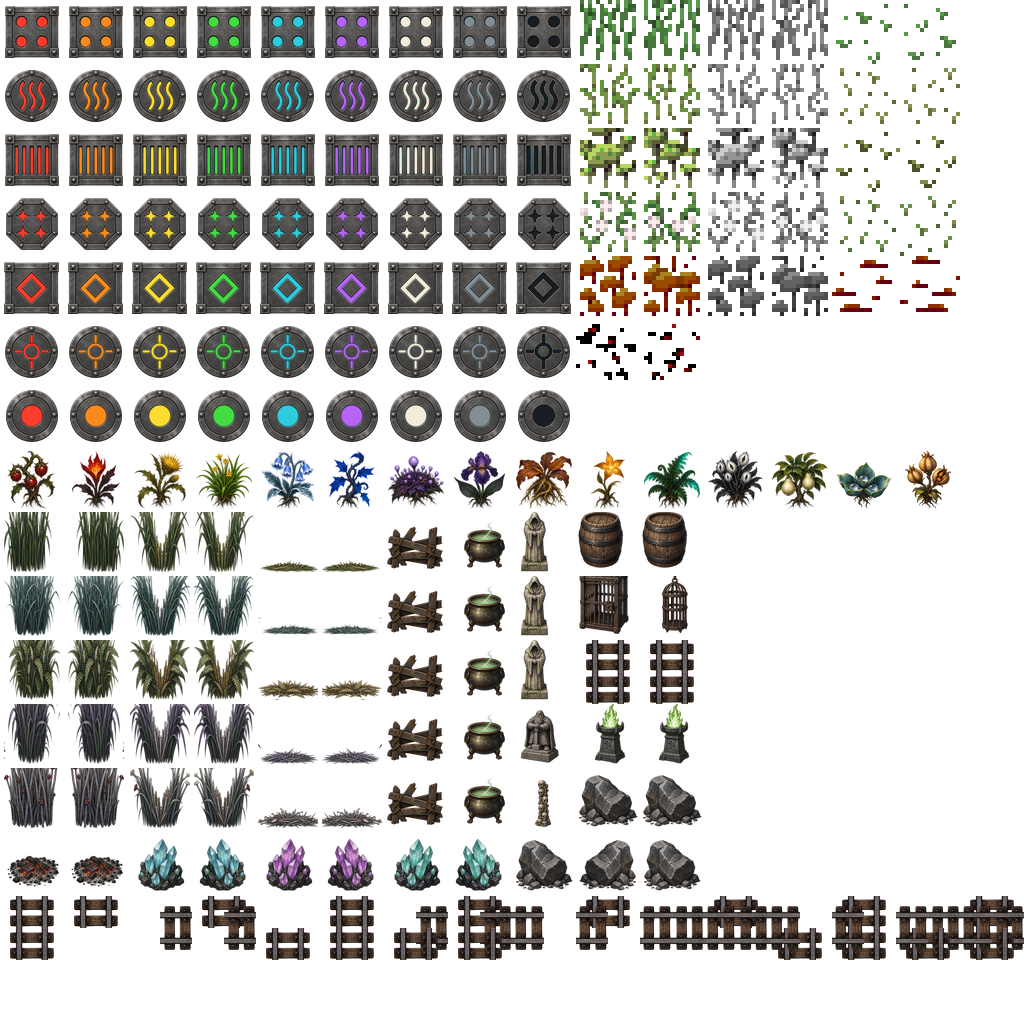
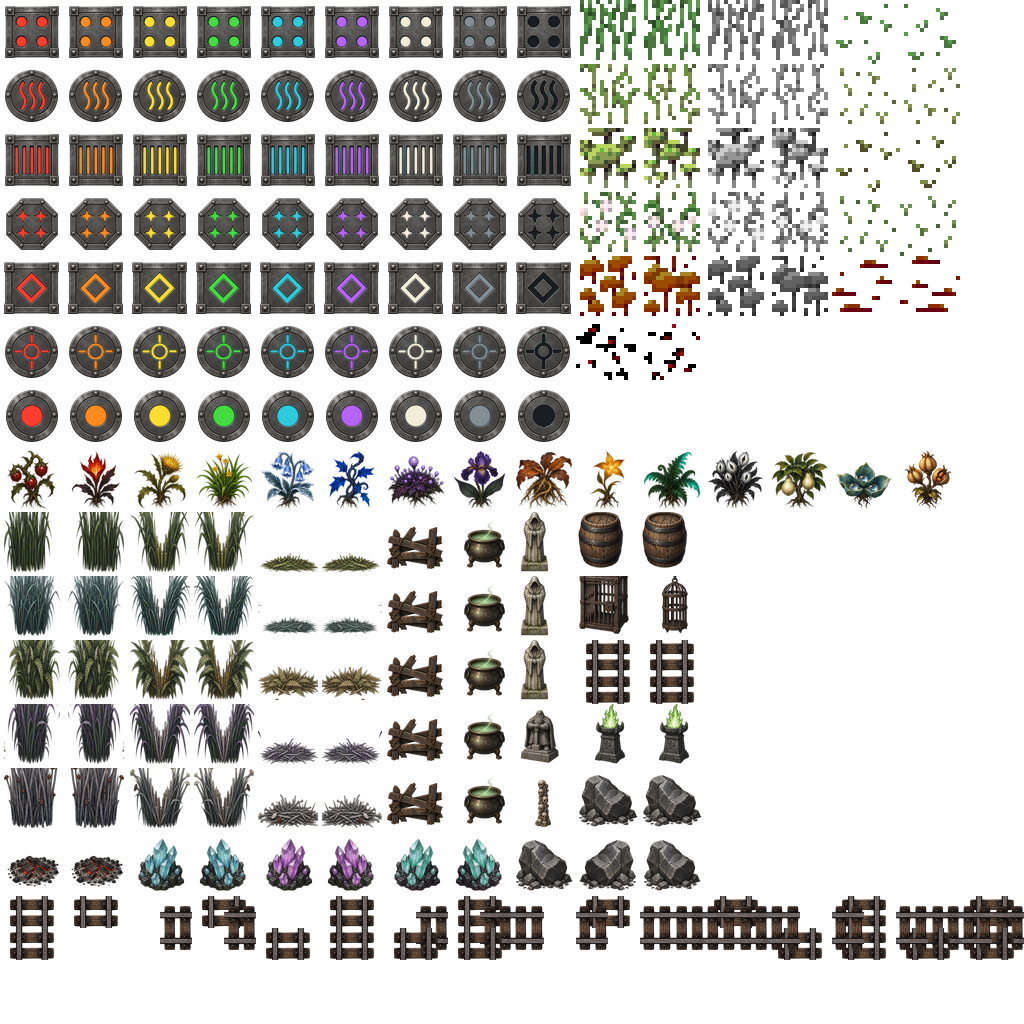
Preserve terrain material colors and clarify flattened grass
Keep test 45 thresholds unchanged. Queue Spellguard, skip Pull, and record user resolution of tablet performance without claiming hardware verification.

diff --git a/core/src/main/java/com/shatteredpixel/shatteredpixeldungeon/ui/changelist/GrimhollowChanges.java b/core/src/main/java/com/shatteredpixel/shatteredpixeldungeon/ui/changelist/GrimhollowChanges.java
@@ -20,7 +20,13 @@ public final class GrimhollowChanges {
         release.addButton(new ChangeButton(icon.get(),title,text));
     }
     public static void addAllChanges(ArrayList<ChangeInfo> list) {
-        ChangeInfo r=release(list,"v1.18.1","A measured appetite and clearer signals.");
+        ChangeInfo r=release(list,"v1.18.2","Read the materials, keep the atmosphere.");
+        note(r,Icons.MAGNIFY,"Clearer terrain",
+                "Regional ambient light and the hero's visibility light preserve more of the painted stone and foliage colors. "
+                +"Torches and fire still cast warm local light. Flattened grass has a fuller spread of low leaves, making it easier to distinguish from bare paving. "
+                +"Sight, fog, traps, movement and artifact charging are unchanged.");
+
+        r=release(list,"v1.18.1","A measured appetite and clearer signals.");
         note(r,Icons.BACKPACK,"Hatchling balance",
                 "Manual feeding is available once the hatchling becomes hungry, during the final quarter of its feeding cycle. Automatic meals and warning interruptions remain. "
                 +"Item Sense marks only one nearest undiscovered loot pile for 20 turns, within 5/8/12/16 cells at +0/+1/+2/+3. Collecting it does not reveal another; refresh replaces the scent. "

diff --git a/core/src/main/java/com/shatteredpixel/shatteredpixeldungeon/tiles/LightMap.java b/core/src/main/java/com/shatteredpixel/shatteredpixeldungeon/tiles/LightMap.java
@@ -3,9 +3,13 @@ package com.shatteredpixel.shatteredpixeldungeon.tiles;
 
 /** Pure CPU light accumulation; testable without OpenGL. Values multiply terrain once. */
 public final class LightMap {
+    // Restrained regional casts preserve the painted material colors. Strong
+    // amber ambient plus personal light used to turn blue rock and green plants
+    // into the same brown as the walkable floor. These are render values only;
+    // sight, fog and Ashlight's environmental charge calculation are independent.
     public static final float[][] AMBIENT = {
-        {.56f, .61f, .51f}, {.50f, .50f, .58f}, {.60f, .45f, .35f},
-        {.52f, .57f, .64f}, {.45f, .45f, .57f}
+        {.56f, .60f, .57f}, {.53f, .55f, .60f}, {.54f, .58f, .62f},
+        {.56f, .58f, .64f}, {.50f, .52f, .59f}
     };
     public final int width, height, samples;
     private final float[] rgb;

diff --git a/core/src/main/java/com/shatteredpixel/shatteredpixeldungeon/tiles/LightingOverlay.java b/core/src/main/java/com/shatteredpixel/shatteredpixeldungeon/tiles/LightingOverlay.java
@@ -60,7 +60,9 @@ public class LightingOverlay extends Image {
     }
     private void rebuild() {
         map.clear((Dungeon.depth-1)/5);
-        source(Dungeon.hero.pos, heroLightRadius(), .45f, .31f, .12f);
+        // A nearly neutral visibility fill keeps terrain legible; actual fire
+        // and torches below still supply the warm, localized pools of light.
+        source(Dungeon.hero.pos, heroLightRadius(), .30f, .29f, .27f);
         boolean lavaSurface = Dungeon.level.waterTex().equals(com.shatteredpixel.shatteredpixeldungeon.Assets.Environment.WATER_HALLS);
         if (lavaSurface) {
             for (int cell=0;cell<Dungeon.level.length();cell++)

diff --git a/tools/painted/terrain_details.py b/tools/painted/terrain_details.py
@@ -43,7 +43,9 @@ def patch(region, atlas, old, floor, cap, features, raised):
     # low clippings; HIGH_GRASS and FURROWED_GRASS retain their gameplay flags.
     for alt in range(2):
         source=plants[2] if alt==0 else plants[2].transpose(Image.Transpose.FLIP_LEFT_RIGHT)
-        low,_=split(source,clear,(60,20))
+        # Flattened leaves cover enough ground to survive downsampling and dim
+        # lighting, while staying far shorter than either standing grass state.
+        low,_=split(source,clear,(60,34))
         put(atlas,2+6*alt,floor)
         put(features,132+16*stage+alt,low)
         for state in range(2):

diff --git a/KNOWN_ISSUES.md b/KNOWN_ISSUES.md
@@ -1,5 +1,14 @@
 # Known issues
 
+- Current plan (2026-09-30): tablet movement performance is resolved per the user's playtesting. Balance remains under the user's campaign playtesting; no balance changes are part of this terrain patch.
+- Queued: replace Enchanter Overload with Spellguard (10%/20% magic damage reduction while armor is inscribed). Not implemented in this patch. Psychic Pull is skipped and is no longer queued.
+- Terrain readability: reduce the ambient/personal-light color cast and enlarge the existing flattened-grass presentation. Human acceptance remains pending; test 45 stays enforced at its existing thresholds and is not marked passing by this work.
+- v1.18.1 CI also exposed a stale full-interface Hatchling fixture: it expects a marker on a heap already marked seen, contrary to nearest-undiscovered-item sensing. This separate test-fixture repair remains outstanding; Android and all class gates passed run 36791233065. No gameplay failure is inferred from that fixture alone.
+
+## Historical release limitations
+
+The dated entries below retain their original verification scope. Their pending tablet-performance notes are superseded by the user's resolution above; they are not reopened tasks or claims that automated tests measured the physical tablet.
+
 - v1.18.1 Hatchling balance and notification/UI changes need physical Samsung tablet playtesting; native portrait/landscape checks do not substitute for a device. Existing test-45 terrain contrast failures remain enforced.
 - Old floor-wide Hatchling Item Sense expires when loading a pre-v1.18.1 save; the next meal selects one scent. New text falls back to English where translations are unavailable.
 

diff --git a/README.md b/README.md
@@ -1,5 +1,9 @@
 # Grimhollow
 
+**Terrain readability v1.18.2:** restrained regional ambient color and a nearly neutral personal light preserve the painted material colors; torches and fire retain their warm light. Flattened grass has a fuller spread of low leaves. Visibility and gameplay are unchanged. This is a visual correction for review, **not a passing declaration for test 45**; its thresholds remain enforced.
+
+**Current plan:** tablet movement performance is **resolved per user playtesting**. Campaign balance remains with the user for continued playtesting. Psychic Pull is skipped. **Spellguard is queued** to replace Overload: 10%/20% magic damage reduction while armor is inscribed; it is not implemented yet. These decisions supersede older pending-performance and replacement-choice notes below. The separate stale Hatchling UI-test fixture remains to be repaired; see [known issues](KNOWN_ISSUES.md).
+
 **v1.18.1 balance and readability:** the home screen now opens **Update Log** directly. Target portraits fit the creature rather than its transparent frame. Healing hearts are red, with painted combat/pickup/spell notifications. Hatchling manual feeding requires hunger (last quarter of its interval); Item Sense marks one nearest undiscovered loot pile for 20 turns within 5/8/12/16 cells. Each meal upgrades OR enchants, favoring upgrades 75% when both are possible. Exceptional upgrades stay +2; rings remain Exceptional; identification only reaches owned belongings.
 
 

diff --git a/CHANGES.md b/CHANGES.md
@@ -1,3 +1,12 @@
+# Terrain readability and playtest decisions - v1.18.2
+
+- Reduce the strong regional/personal-light color cast so cool rock, foliage and warm walkable floor retain their painted material differences. Keep local torch/fire colors, fog, sight radii, lighting cost and Ashlight charging rules unchanged.
+- Give the existing flattened-grass painting a wider visible ground footprint (60x34 rather than 60x20) through the deterministic packer; no new source art or terrain rules.
+- Keep test 45 and its original thresholds enforced. Terrain changes require human review and are not declared passing by this patch.
+- Tablet movement performance is resolved per user playtesting. The user continues campaign balance review; this patch changes no balance values.
+- Psychic Pull is skipped. Queue Spellguard as the Overload replacement: 10%/20% magic damage reduction while armor is inscribed. Queue only, not shipped gameplay.
+- Version 1.18.2 uses Android code 968 and retains save compatibility.
+
 # Hatchling balance and readable notifications - v1.18.1
 
 - Manual Feed now requires hunger (last quarter of the interval); automatic feeding and the action-interrupt warning remain.

diff --git a/tools/painted/README.md b/tools/painted/README.md
@@ -1,3 +1,7 @@
+# Terrain readability — v1.18.2
+
+`terrain_details.py` packs the existing flattened-grass painting into a 60x34 footprint instead of 60x20. It remains below both standing states and exposes paving around the leaves. No source painting, terrain index, collision or alpha stencil is replaced; the standard offline packer reproduces the change. Regional ambient and personal-light corrections live in the renderer, preserving localized torch/fire colors and all visibility rules. Test 45 is measured independently, with unchanged thresholds and no manual pass override.
+
 # Playtest polish — v1.18.0
 
 `sources/playtest-polish/` contains three original built-in imagegen paintings: ascending stairs, descending stairs, and the eating icon. Exact prompts and GPL-3.0-or-later provenance are in `playtest-polish-prompts.json`. `pack.py` composites stair frames 16/17/22 across the five region atlases and inherited expedition terrain, and exports the transparent 64px meal to `effects/painted_food.png`. Garden motes reuse the existing painted particle atlas. All outputs rebuild offline; world units and stair behavior are unchanged.
